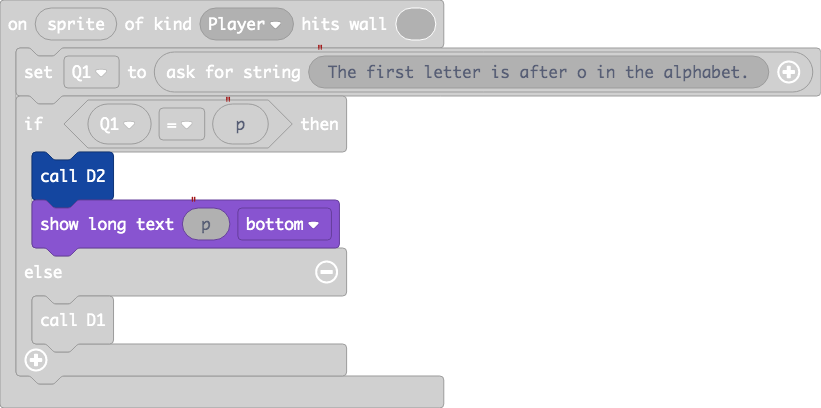
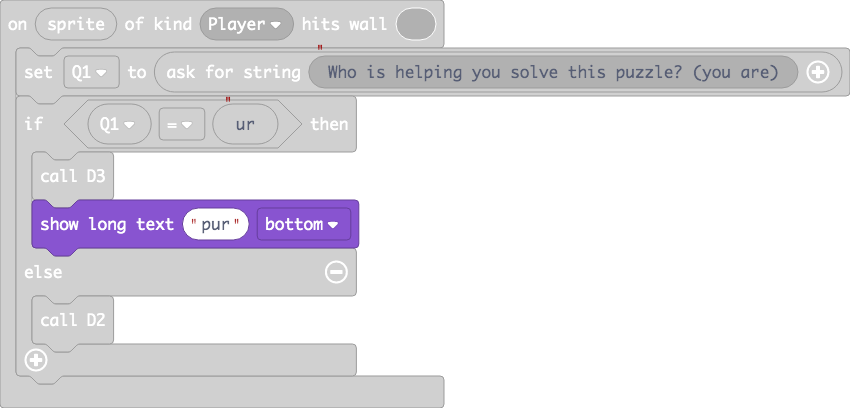
Update main.blocks, main.ts

diff --git a/main.ts b/main.ts
@@ -313,7 +313,7 @@ scene.onHitTile(SpriteKind.Player, 4, function (sprite) {
     Q1 = game.askForString("Who is helping you solve this puzzle? (you are)")
     if (Q1 == "ur") {
         D3()
-        game.showLongText("pu", DialogLayout.Bottom)
+        game.showLongText("pur", DialogLayout.Bottom)
     } else {
         D2()
     }
